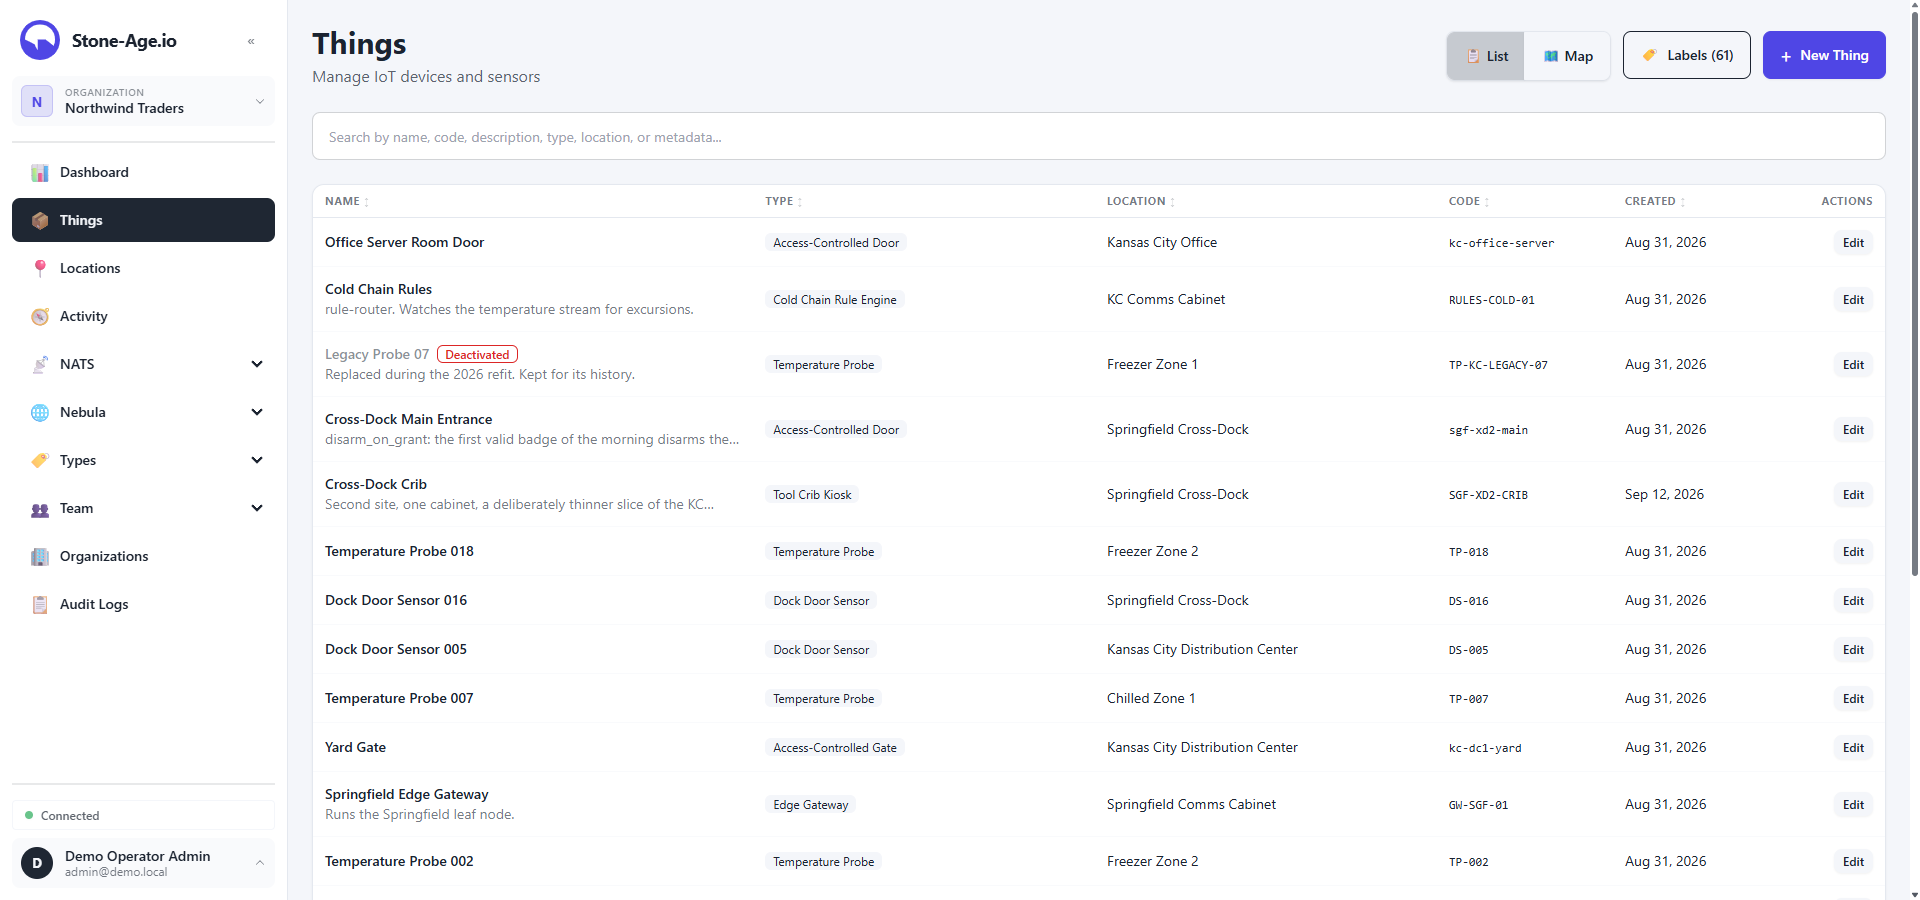
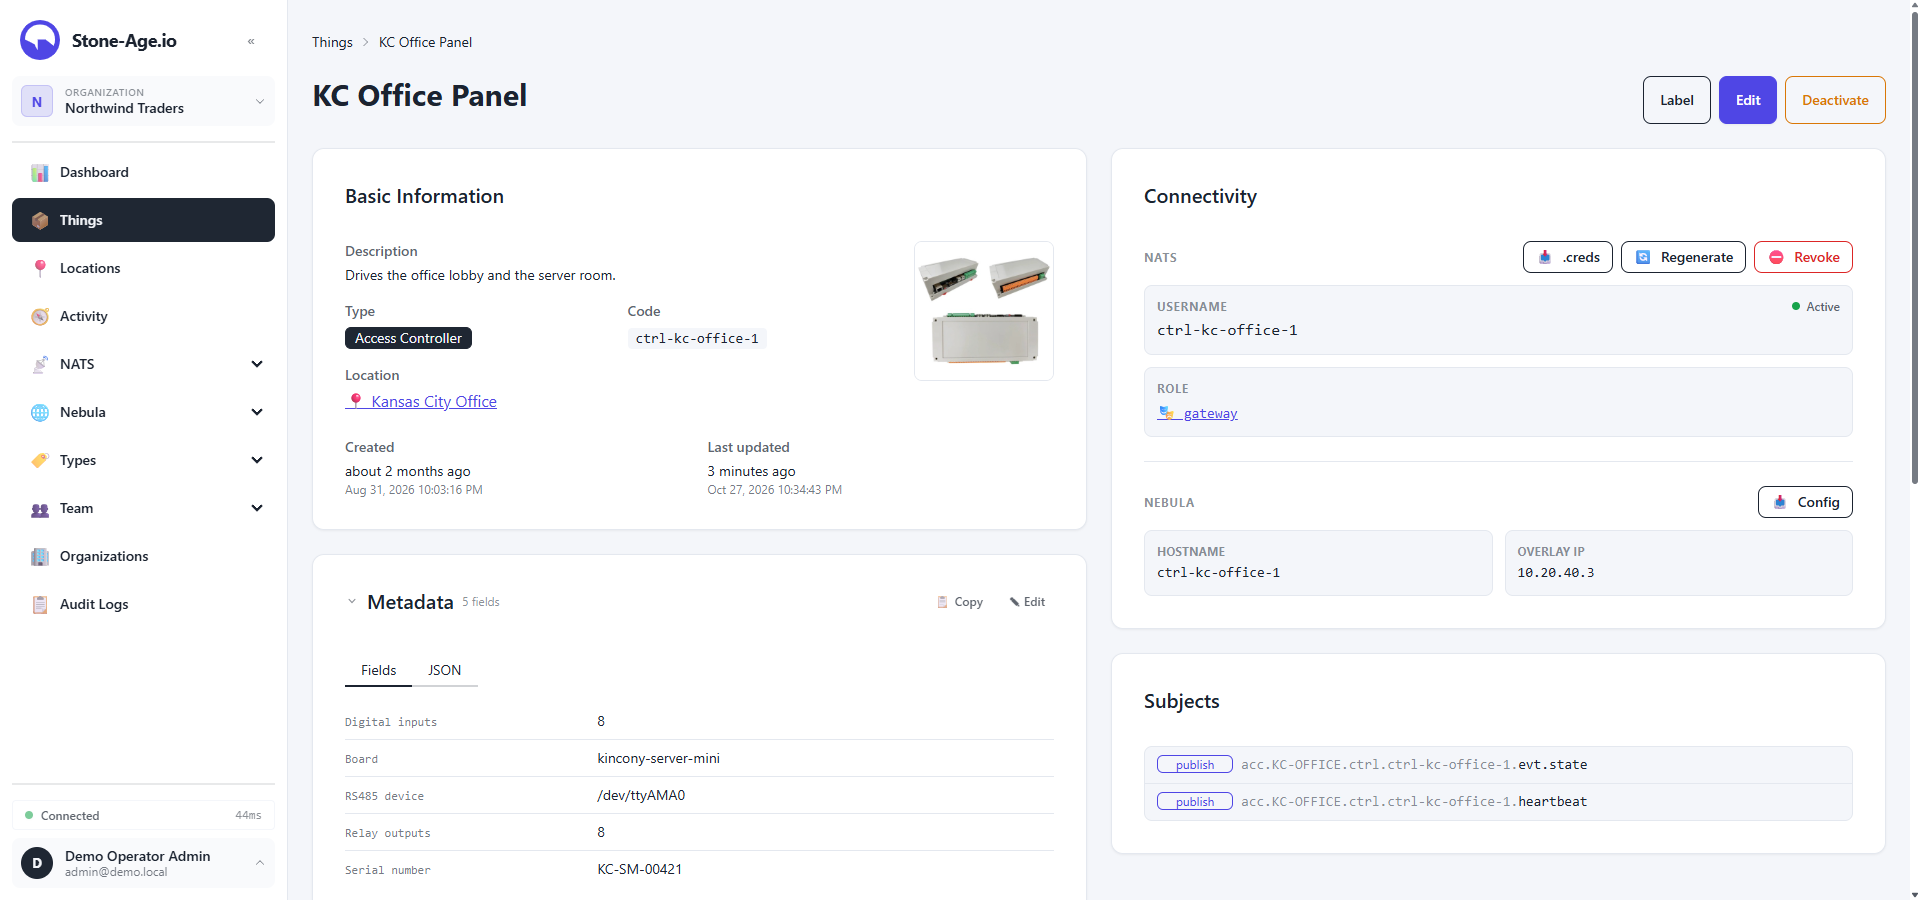
tour: show a thing's full record, drop the digital twin tab
The Things tab now shows the KC Office Panel's page in the demo, dark and
light: inventory details, its NATS user and role with creds, regenerate and
revoke, its Nebula host and overlay IP, and its subjects. That is the
one-record story in a single view, so the separate Digital Twin tab and its
images go.

diff --git a/src/components/home/ScreenshotTour.vue b/src/components/home/ScreenshotTour.vue
@@ -208,24 +208,14 @@ const tabs = [
     description: 'Build custom views with gauges, charts, maps, and live message feeds. Widgets subscribe directly to NATS, so data flows from things to the browser without touching a database.'
   },
   {
-    label: 'Digital Twin',
-    icon: 'pi-bolt',
-    url: 'console.stone-age.io/things/791106vcjkb1b3l',
-    image: '/images/screenshots/digital-twin.png',
-    imageLight: '/images/screenshots/digital-twin-light.png',
-    alt: 'Live state of a door: reported and desired values with revision history',
-    title: 'Live state management',
-    description: 'View and edit the live state of any thing or location in real-time. Change a setpoint in the UI and the update is published to NATS instantly for the thing to receive.'
-  },
-  {
     label: 'Things',
     icon: 'pi-server',
-    url: 'console.stone-age.io/things',
+    url: 'console.stone-age.io/things/3h8ae5r4r0phhv7',
     image: '/images/screenshots/things.png',
     imageLight: '/images/screenshots/things-light.png',
-    alt: 'Thing management list view',
+    alt: "An access controller's thing page: inventory details, its NATS user and role, its Nebula host and overlay IP, and its subjects",
     title: 'Thing registry and management',
-    description: 'Manage your entire fleet from one interface. Each thing is a first-class auth record with NATS credentials, Nebula certificates, and metadata.'
+    description: 'Each thing is one record: its inventory entry, its NATS login and credentials, its Nebula host on the private network, and the subjects it publishes. Regenerate or revoke from the same page.'
   },
   {
     label: 'Floor Plans',
